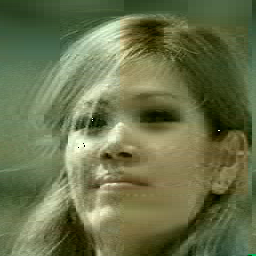
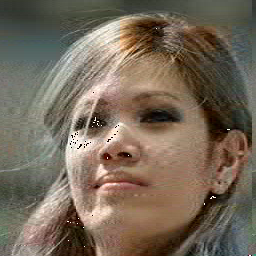
fixed quantization

diff --git a/RGBtoYCbCr/H261Compressor.cs b/RGBtoYCbCr/H261Compressor.cs
@@ -83,9 +83,9 @@ namespace RGBtoYCbCr
                     for (int c = 0; c < 8; c++)
                     {
                         if (type == TYPE_Y)
-                            Math.Round(block[r, c] /= Luminance[r, c]);
+                            block[r, c] = Math.Round(block[r, c] /= Luminance[r, c]);
                         else
-                            Math.Round(block[r, c] /= Chrominance[r, c]);
+                            block[r, c] = Math.Round(block[r, c] /= Chrominance[r, c]);
                     }
                 }
             }
@@ -101,9 +101,9 @@ namespace RGBtoYCbCr
                     for (int c = 0; c < 8; c++)
                     {
                         if (type == TYPE_Y)
-                            Math.Round(block[r, c] *= Luminance[r, c]);
+                            block[r, c] = Math.Round(block[r, c] *= Luminance[r, c]);
                         else
-                            Math.Round(block[r, c] *= Chrominance[r, c]);
+                            block[r, c] = Math.Round(block[r, c] *= Chrominance[r, c]);
                     }
                 }
             }
@@ -173,8 +173,8 @@ namespace RGBtoYCbCr
             }
 
             // Add a delimiter to indicate the end of a block
-            byteList.Add(byte.MaxValue);
-            byteList.Add(byte.MaxValue);
+            byteList.Add(byte.MinValue);
+            byteList.Add(byte.MinValue);
 
             return byteList;
         }
@@ -188,7 +188,7 @@ namespace RGBtoYCbCr
             for (int i = 0; i < byteList.Count; i++)
             {
                 // Check if the current byte represents the block delimiter
-                if (byteList[i] == byte.MaxValue && byteList[i + 1] == byte.MaxValue)
+                if (byteList[i] == byte.MinValue && byteList[i + 1] == byte.MinValue)
                 {
                     // Add the current block to the list of blocks
                     listOfBlocks.Add(currentBlock);
@@ -350,20 +350,6 @@ namespace RGBtoYCbCr
         }
 
 
-        private static int BitSize(double number)
-        {
-            // Get the absolute value of the number
-            double absoluteValue = Math.Abs(number);
-
-            // Get the maximum integer that fits the number
-            long integerValue = Convert.ToInt64(absoluteValue);
-
-            // Get the number of bits needed to represent the integer part
-            int bitCount = integerValue == 0 ? 1 : (int)Math.Floor(Math.Log(integerValue, 2)) + 1;
-
-            return bitCount;
-        }
-
         public List<double[,]> DCTBlocksAndQuantize(byte[] ycrcb)
         {
             int i = 4;
@@ -382,7 +368,7 @@ namespace RGBtoYCbCr
             // yblock after dct, before quantize
             foreach (var block in yblocks)
             {
-
+                Debug.WriteLine(block);
             }
 
             yblocks = Quantize(yblocks, TYPE_Y);
@@ -413,6 +399,22 @@ namespace RGBtoYCbCr
             return blocks;
         }
 
+        public double satuaration(double value)
+        {
+            if (value > 255)
+            {
+                return 255;
+            }
+            else if (value < 0)
+            {
+                return 0;
+            }
+            else
+            {
+                return value;
+            }
+        }
+
         private List<double[,]> DCTBlocks(List<double[,]> blocks)
         {
             List<double[,]> dct_blocks = new List<double[,]>();
@@ -440,6 +442,7 @@ namespace RGBtoYCbCr
             {
                 for (int v = 0; v < m; v++)
                 {
+
                     double sum = 0;
                     for (int x = 0; x < n; x++)
                     {
@@ -453,6 +456,7 @@ namespace RGBtoYCbCr
                 }
             }
             return result;
+
         }
 
         public double[,] IDCT(double[,] H, int n, int m)
@@ -475,7 +479,6 @@ namespace RGBtoYCbCr
             }
             return result;
         }
-
         public Bitmap ConvertYCbCrtoRGB(byte[] ycrcb, int width, int height)
         {
             double[,] Y = new double[width, height];

diff --git a/RGBtoYCbCr/Form1.cs b/RGBtoYCbCr/Form1.cs
@@ -6,6 +6,8 @@ using System.Text;
 using System.Threading.Tasks;
 using System.Windows.Forms;
 using System.Diagnostics;
+using Microsoft.VisualBasic.ApplicationServices;
+using static System.Windows.Forms.AxHost;
 
 namespace RGBtoYCbCr
 {
@@ -85,7 +87,7 @@ namespace RGBtoYCbCr
         }
         private void toolStripButton2_Click(object sender, EventArgs e)
         {
-            filePath = "C:\\Users\\Eric\\source\\repos\\RGB-to-YCbCr\\RGBtoYCbCr\\face1.eric";
+            filePath = @"C:\Users\etatc\source\repos\RGBtoYCbCr\RGBtoYCbCr\face1.eric";
             List<byte> compressed = new List<byte>();
 
             byte[] ycrcb = cmp.ConvertRGBtoYCbCr(originalImage);
@@ -99,6 +101,7 @@ namespace RGBtoYCbCr
             List<double[,]> blocks = cmp.DCTBlocksAndQuantize(ycrcb);
             foreach (double[,] block in blocks)
             {
+
                 encoded.Add(cmp.RLE(block));
             }
 
@@ -128,8 +131,13 @@ namespace RGBtoYCbCr
             int height = (compressed[2] << 8) | compressed[3];
             compressed.RemoveRange(0, 4);
 
+
+
             // get encoded
             List<List<Tuple<int, int>>> encodedblocks = cmp.ConvertBackToListOfTuples(compressed);
+
+
+
 
             // decode
             List<double[,]> blocks = new List<double[,]>();
@@ -137,6 +145,8 @@ namespace RGBtoYCbCr
             {
                 blocks.Add(cmp.InverseRLE(encodedblock));
             }
+
+
 
             // dequantize
             List<double[,]> yblocks = new List<double[,]>();
@@ -155,13 +165,15 @@ namespace RGBtoYCbCr
             }
             yblocks = cmp.Dequantize(yblocks, H261Compressor.TYPE_Y);
 
+
+
             // yblock before IDCT, after dequantize
             foreach (var block in yblocks)
             {
-
+                Debug.WriteLine(block);
             }
 
-            cbcrblocks = cmp.Dequantize(cbcrblocks, H261Compressor.TYPE_Y);
+            cbcrblocks = cmp.Dequantize(cbcrblocks, H261Compressor.TYPE_CbCr);
 
             // inverse DCT
             yblocks = cmp.IDCTBlocks(yblocks);
@@ -187,7 +199,7 @@ namespace RGBtoYCbCr
             Bitmap jpeg = cmp.ConvertYCbCrtoRGB(bytes.ToArray(), width, height);
 
             // Save the bitmap to the specified file path
-            filePath = "C:\\Users\\Eric\\source\\repos\\RGB-to-YCbCr\\RGBtoYCbCr\\face1_newnew.jpeg";
+            filePath = @"C:\Users\etatc\source\repos\RGBtoYCbCr\RGBtoYCbCr\face1_newnew.jpeg";
             jpeg.Save(filePath);
         }
 
